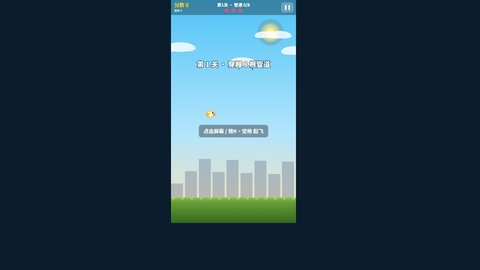
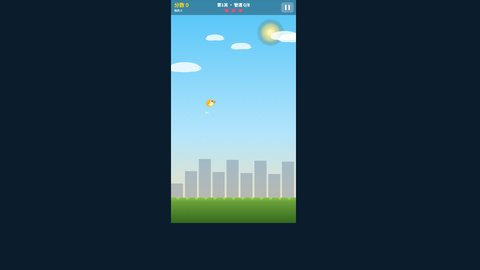
fix: 玩法截图须进关卡后再截，放宽暗色 Canvas 校验
修复 thumb-preview 过早标记就绪导致菜单图被上传；识别 Game.state 数值态；失败保留原图并 CLI 重生成缩略图。

diff --git a/public/js/game/thumb-preview.js b/public/js/game/thumb-preview.js
@@ -22,6 +22,71 @@
   ].join('\n');
   document.head.appendChild(style);
 
+  var MENU_STATES = {
+    menu: 1,
+    pause: 1,
+    paused: 1,
+    gameover: 1,
+    over: 1,
+    win: 1,
+    levelclear: 1
+  };
+
+  function fireKey(code) {
+    var opts = { code: code, key: code === 'Enter' ? 'Enter' : ' ', bubbles: true, cancelable: true };
+    try {
+      document.dispatchEvent(new KeyboardEvent('keydown', opts));
+      window.dispatchEvent(new KeyboardEvent('keydown', opts));
+    } catch (e) {}
+  }
+
+  function isMenuState(s) {
+    return s === 0 || s === 'menu' || !!MENU_STATES[s];
+  }
+
+  function isPlayState(s) {
+    return s === 1 || s === 'play' || s === 'playing';
+  }
+
+  function canvasLooksLive() {
+    var canvas = document.querySelector('canvas');
+    if (!canvas || canvas.width < 16 || canvas.height < 16) return false;
+    try {
+      var ctx = canvas.getContext('2d');
+      var d = ctx.getImageData(0, 0, Math.min(64, canvas.width), Math.min(64, canvas.height)).data;
+      var sum = 0;
+      var maxDiff = 0;
+      var base = d[0] + d[1] + d[2];
+      for (var i = 0; i < d.length; i += 4) {
+        var px = d[i] + d[i + 1] + d[i + 2];
+        sum += px;
+        maxDiff = Math.max(maxDiff, Math.abs(px - base));
+      }
+      var avg = sum / (d.length / 4) / 3;
+      return avg > 8 && maxDiff > 18;
+    } catch (e2) {
+      return false;
+    }
+  }
+
+  function gameplayActive() {
+    if (typeof Game !== 'undefined' && Game && typeof Game.state !== 'undefined') {
+      var s = Game.state;
+      if (isMenuState(s)) return false;
+      if (s === 'ready') return false;
+      if (isPlayState(s)) return true;
+    }
+    if (typeof window.__tbThumbStateName === 'string') {
+      if (window.__tbThumbStateName === 'menu') return false;
+      if (window.__tbThumbStateName === 'playing') return true;
+    }
+    if (document.querySelector('.klotski-board .klotski-tile, .gomoku-cell .gomoku-stone, .puzzle-piece')) {
+      return true;
+    }
+    if (document.querySelector('.gomoku-board .gomoku-cell')) return true;
+    return canvasLooksLive();
+  }
+
   function clickRestart() {
     var btn = document.getElementById('restart-btn');
     if (btn) {
@@ -35,66 +100,83 @@
     if (typeof window.__tbThumbAutoStart === 'function') {
       try {
         window.__tbThumbAutoStart();
-        return true;
       } catch (e) {}
     }
-    if (typeof Game !== 'undefined') {
-      if (typeof Game.startGame === 'function') {
+    if (typeof Game !== 'undefined' && Game) {
+      if (typeof Game.startGame === 'function' && isMenuState(Game.state)) {
         try {
-          Game.startGame(Game.mode || 'level');
-          return true;
+          Game.startGame('level');
+          if (Game.state === 'ready') Game.state = 'playing';
         } catch (e1) {
           try {
-            Game.startGame('level');
-            return true;
+            Game.startGame(Game.mode || 'level');
+            if (Game.state === 'ready') Game.state = 'playing';
           } catch (e2) {}
         }
       }
-      if (typeof Game.newGame === 'function') {
-        try {
-          Game.newGame('level');
-          return true;
-        } catch (e3) {}
+      if (typeof Game.newGame === 'function' && isMenuState(Game.state)) {
+        try { Game.newGame('level'); } catch (e3) {}
       }
     }
-    if (typeof startGame === 'function') {
-      try {
-        startGame(false);
-        return true;
-      } catch (e4) {
-        try {
-          startGame('level');
-          return true;
-        } catch (e5) {}
+    if (typeof startGame === 'function' && typeof Game !== 'undefined' && Game && isMenuState(Game.state)) {
+      try { startGame(false); } catch (e4) {
+        try { startGame('level'); } catch (e5) {}
       }
     }
-    return clickRestart();
+    fireKey('Enter');
+    fireKey('Space');
+    if (typeof Game !== 'undefined' && Game && Game.state === 'ready') Game.state = 'playing';
+    clickRestart();
+    return gameplayActive();
   }
 
   var attempts = 0;
-  var started = false;
+  var playSince = 0;
 
   function signalReady() {
-    var n = 0;
+    var frames = 0;
     (function frame() {
-      n++;
-      if (n >= 6) window.__tbThumbReady = true;
-      else requestAnimationFrame(frame);
+      frames++;
+      if (gameplayActive()) {
+        if (!playSince) playSince = Date.now();
+        if (Date.now() - playSince >= 2200) {
+          window.__tbThumbReady = true;
+          window.__tbThumbGameplay = true;
+          return;
+        }
+      } else {
+        playSince = 0;
+      }
+      if (frames >= 160) {
+        window.__tbThumbReady = gameplayActive();
+        window.__tbThumbGameplay = window.__tbThumbReady;
+        return;
+      }
+      requestAnimationFrame(frame);
     })();
   }
 
   function tick() {
-    if (!started && tryStart()) {
-      started = true;
+    if (!gameplayActive()) {
+      tryStart();
+    }
+    if (gameplayActive()) {
       signalReady();
       return;
     }
-    if (started || attempts++ > 80) return;
+    if (attempts++ > 120) {
+      if (!window.__tbThumbReady) signalReady();
+      return;
+    }
     requestAnimationFrame(tick);
   }
 
   function boot() {
-    setTimeout(tick, 150);
+    window.dispatchEvent(new Event('resize'));
+    setTimeout(tick, 250);
+    setTimeout(function () {
+      if (!gameplayActive()) tick();
+    }, 1200);
   }
 
   if (document.readyState === 'loading') {

diff --git a/public/js/admin/game-thumbs.js b/public/js/admin/game-thumbs.js
@@ -7,8 +7,8 @@
 
   var THUMB_W = 480;
   var THUMB_H = 270;
-  var MIN_WAIT_MS = 2500;
-  var MAX_WAIT_MS = 16000;
+  var MIN_WAIT_MS = 5000;
+  var MAX_WAIT_MS = 22000;
   var POLL_MS = 180;
 
   function tr(key, fb) {
@@ -158,12 +158,22 @@
   function docReady(doc, gameplay) {
     if (!doc) return false;
     var win = doc.defaultView;
-    if (gameplay && win && win.__tbThumbReady) return true;
+    if (gameplay) {
+      if (win && win.__tbThumbReady && win.__tbThumbGameplay) return true;
+      if (win && win.__tbThumbReady) {
+        var canvas = doc.querySelector('canvas');
+        if (canvas && canvasScore(canvas) > 20) return true;
+        var board = doc.querySelector('.klotski-board .klotski-tile, .gomoku-cell, .puzzle-piece');
+        if (board) return true;
+      }
+      return false;
+    }
+    if (win && win.__tbThumbReady) return true;
     var canvas = doc.querySelector('canvas');
     if (canvas && canvasScore(canvas) > 14) return true;
     var board = doc.querySelector('.klotski-board, .gomoku-board, .puzzle-board, #board');
     if (board && board.children && board.children.length > 0) return true;
-    if (!gameplay && doc.body && doc.body.innerText && doc.body.innerText.length > 20) return true;
+    if (doc.body && doc.body.innerText && doc.body.innerText.length > 20) return true;
     return false;
   }
 
@@ -193,7 +203,7 @@
     if (!target) target = doc.body;
     return loadHtml2Canvas().then(function (html2canvas) {
       return html2canvas(target, {
-        backgroundColor: '#111827',
+        backgroundColor: target.classList && target.classList.contains('klotski-board') ? '#e2e8f0' : '#111827',
         scale: Math.min(2, window.devicePixelRatio || 1),
         logging: false,
         useCORS: true
@@ -256,12 +266,17 @@
       iframe.onerror = function () { finish(new Error('iframe load error')); };
       iframe.onload = function () {
         var doc = iframe.contentDocument;
+        var win = iframe.contentWindow;
+        if (win) win.dispatchEvent(new Event('resize'));
         waitForReady(doc, gameplay)
           .then(function () { return captureFromDoc(doc); })
           .then(function (dataUrl) {
             return avgBrightness(dataUrl).then(function (b) {
-              if (gameplay && b < 10) {
-                throw new Error('capture too dark (' + Math.round(b) + ')');
+              if (!gameplay) return dataUrl;
+              var canvas = doc.querySelector('canvas');
+              var score = canvas ? canvasScore(canvas) : 0;
+              if (b < 6 && score < 14) {
+                throw new Error('capture too dark (avg ' + Math.round(b) + ', score ' + Math.round(score) + ')');
               }
               return dataUrl;
             });

diff --git a/public/js/locales/zh-CN.js b/public/js/locales/zh-CN.js
@@ -46,7 +46,7 @@ window.TB_LOCALES['zh-CN'] = {
             refreshTitle: '后台更新',
             refreshDesc: '手动触发爬虫与编译任务（科技资讯、性能跑分榜、游戏截图等）',
             gameThumbsTitle: '游戏中心截图',
-            gameThumbsDesc: '在本页用浏览器截取各游戏画面并上传缩略图。推荐「刷新玩法截图」；菜单截图用于标题页展示。',
+            gameThumbsDesc: '在本页用浏览器打开各游戏并上传缩略图到站点（推荐「刷新玩法截图」）。需等游戏进入关卡后再截；过暗或未进关卡记为失败并保留原图。',
             gameThumbsGameplay: '刷新玩法截图',
             gameThumbsMenu: '刷新菜单截图',
             gameThumbsOpenHub: '查看游戏中心',

diff --git a/public/js/locales/en.js b/public/js/locales/en.js
@@ -47,7 +47,7 @@ window.TB_LOCALES.en = {
             refreshTitle: 'Backend updates',
             refreshDesc: 'Manually run crawlers and compile jobs (tech news, benchmark ranks, game thumbs, …)',
             gameThumbsTitle: 'Games hub thumbnails',
-            gameThumbsDesc: 'Capture each game in your browser and upload JPEG thumbs. Prefer “Refresh gameplay shots”.',
+            gameThumbsDesc: 'Capture each game in your browser and upload JPEG thumbs. Prefer “Refresh gameplay shots”; wait until each level starts. Too dark or still on menu counts as failed and keeps the old thumb.',
             gameThumbsGameplay: 'Refresh gameplay shots',
             gameThumbsMenu: 'Refresh menu shots',
             gameThumbsOpenHub: 'Open games hub',

diff --git a/public/html/game/klotski.html b/public/html/game/klotski.html
@@ -53,6 +53,12 @@
   <script src="../../js/base.js?v=minimax1"></script>
   <script src="../../js/game/game-audio.js?v=minimax1"></script>
   <script src="../../js/game/klotski.js?v=minimax1"></script>
-<script src="../../js/game/thumb-preview.js"></script>
+  <script>
+  window.__tbThumbAutoStart = function () {
+    var btn = document.getElementById('restart-btn');
+    if (btn) btn.click();
+  };
+  </script>
+  <script src="../../js/game/thumb-preview.js"></script>
 </body>
 </html>

diff --git a/public/html/game/gomoku.html b/public/html/game/gomoku.html
@@ -46,6 +46,12 @@
   <script src="../../js/base.js?v=minimax1"></script>
   <script src="../../js/game/game-audio.js?v=minimax1"></script>
   <script src="../../js/game/gomoku.js?v=minimax1"></script>
-<script src="../../js/game/thumb-preview.js"></script>
+  <script>
+  window.__tbThumbAutoStart = function () {
+    var btn = document.getElementById('restart-btn');
+    if (btn) btn.click();
+  };
+  </script>
+  <script src="../../js/game/thumb-preview.js"></script>
 </body>
 </html>

diff --git a/public/html/game/fly_bird.html b/public/html/game/fly_bird.html
@@ -612,6 +612,7 @@ function mainLoop(now){
 }
 Game.init();
 requestAnimationFrame(mainLoop);
+window.__tbThumbAutoStart = function () { Game.startGame('level'); Game.state = 'playing'; Game.msgTimer = 0; };
 </script>
 <script src="../../js/game/thumb-preview.js"></script>
 </body>

diff --git a/public/html/game/hundred_floors.html b/public/html/game/hundred_floors.html
@@ -797,6 +797,7 @@ function mainLoop(now){
 }
 Game.init();
 requestAnimationFrame(mainLoop);
+window.__tbThumbAutoStart = function () { Game.startGame('level'); Game.msgTimer = 0; };
 </script>
 <script src="../../js/game/thumb-preview.js"></script>
 </body>

diff --git a/public/html/game/worms.html b/public/html/game/worms.html
@@ -996,6 +996,7 @@ function mainLoop(now){
 }
 Game.init();
 requestAnimationFrame(mainLoop);
+window.__tbThumbAutoStart = function () { Game.startGame('level'); Game.msgTimer = 0; };
 </script>
 <script src="../../js/game/thumb-preview.js"></script>
 </body>

diff --git a/public/html/game/tank_battle.html b/public/html/game/tank_battle.html
@@ -3140,6 +3140,7 @@ const Game = (() => {
       newLevel();
       stateName = "playing";
     }
+    window.__tbThumbStateName = stateName;
   };
 })();
 </script>
